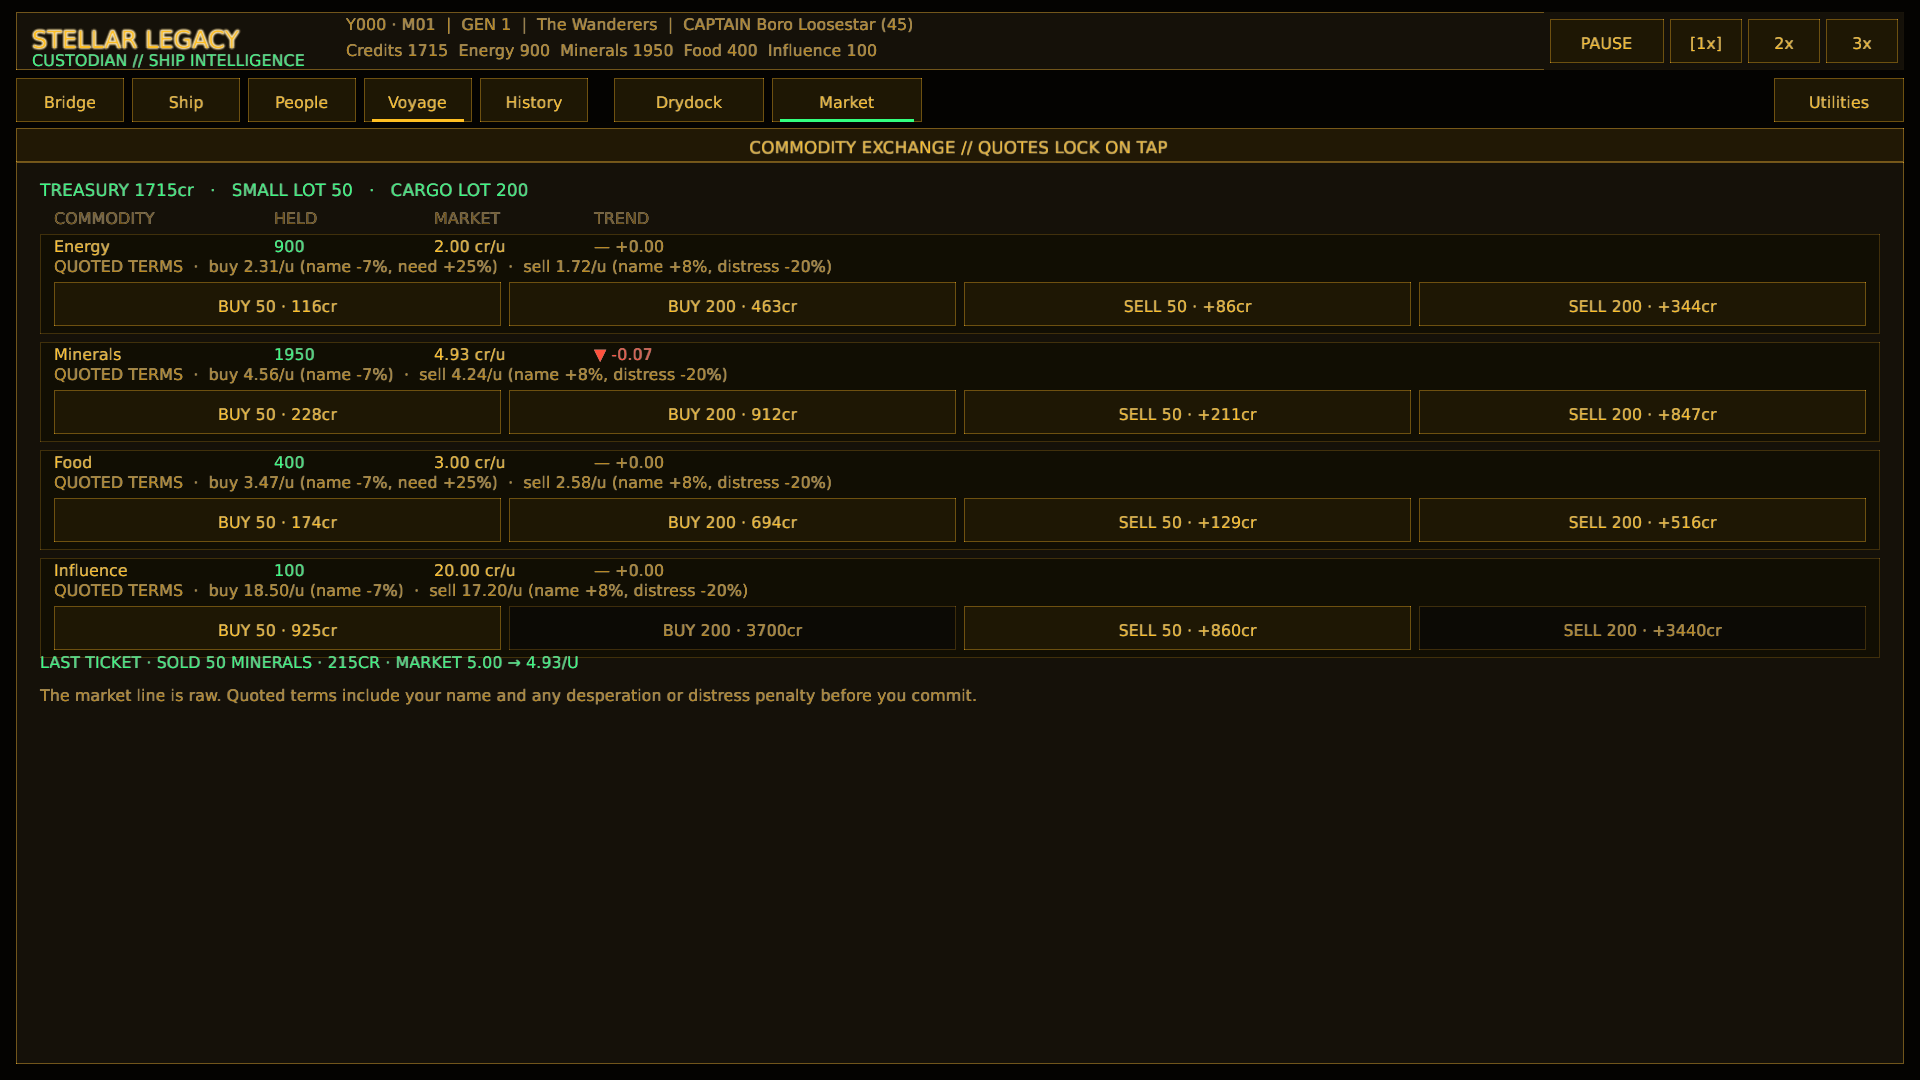
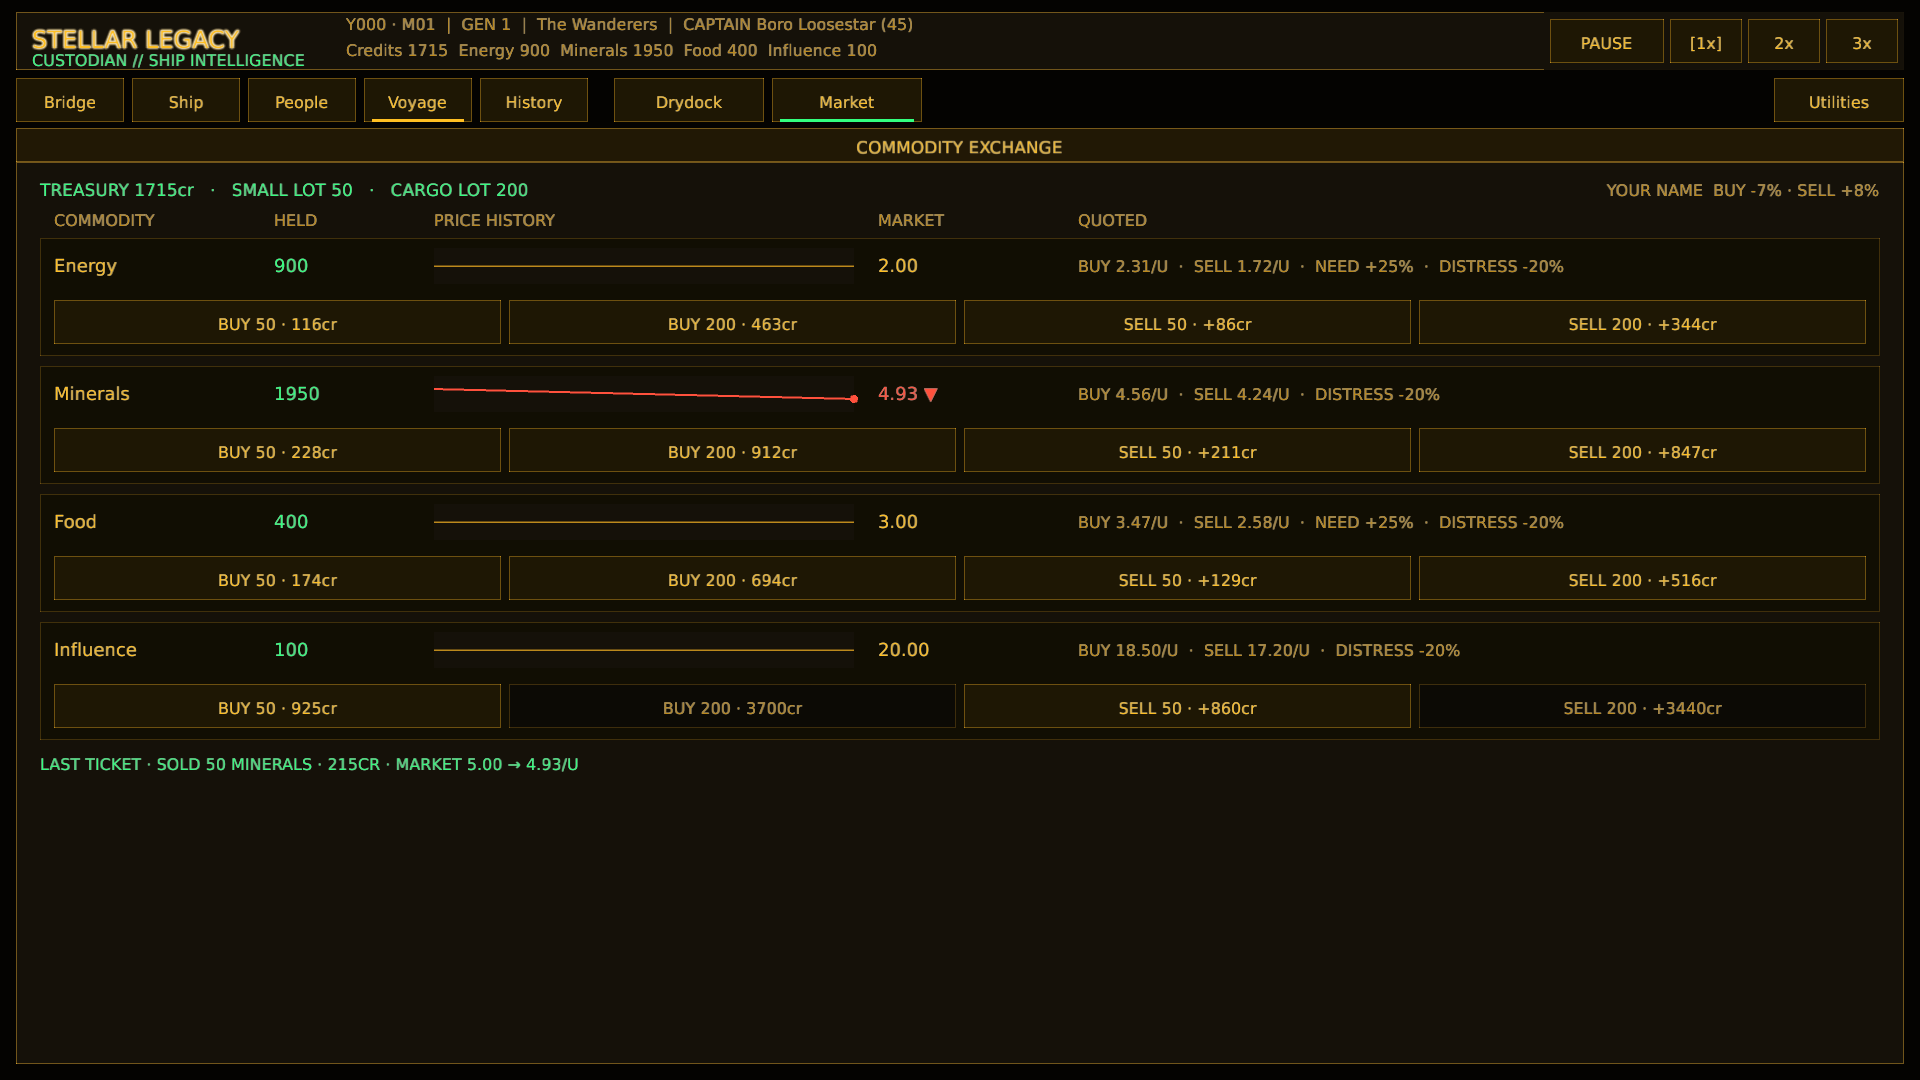
The exchange remembers where its prices have been (Market sparklines)
Each commodity read as "— +0.00" for its trend and a full quoted-terms
sentence ("buy 2.31/u (name -7%, need +25%) · sell 1.72/u (name +8%,
distress -20%)"), under a "QUOTES LOCK ON TAP" title and above a
paragraph explaining raw versus quoted prices (UI_TEXT_REVIEW item 7).

`MarketEntry` now keeps up to 24 earlier settled prices in a
`#[serde(default)]` `history`, recorded by the new `set_price`, which
both the yearly drift and trade impact use, so older saves load with an
empty history. Each row draws that history plus the current price as a
sparkline scaled to its own range, toned by the latest change with a dot
at the present price, and the price itself carries the arrow. Quoted
terms are now unit buy and sell prices plus NEED or DISTRESS tags only
when they apply; the ship's name bends every good alike, so it is
stated once in the header. The title caption and the footer paragraph
are gone; the last ticket stays.

Formatting, strict all-target Clippy and the full test suite including
code standards pass. Market was recaptured at 1920x1080 and read back;
a fresh campaign shows flat lines until prices move.

diff --git a/src/ui/market.rs b/src/ui/market.rs
@@ -22,35 +22,41 @@ fn factor_label(name: &str, factor: f32) -> Option<String> {
     (percent != 0).then(|| format!("{name} {percent:+}%"))
 }
 
+/// Unit buy and sell prices for one commodity, with a tag only when the
+/// ship's need or distress is bending this good's terms right now. The ship's
+/// name bends every good alike, so it is stated once in the header instead.
 fn terms_line(buy: TradeQuote, sell: TradeQuote) -> String {
-    let mut buy_terms = Vec::new();
-    if let Some(label) = factor_label("name", buy.reputation_factor) {
-        buy_terms.push(label);
-    }
-    if let Some(label) = factor_label("need", buy.pressure_factor) {
-        buy_terms.push(label);
-    }
-    let mut sell_terms = Vec::new();
-    if let Some(label) = factor_label("name", sell.reputation_factor) {
-        sell_terms.push(label);
-    }
-    if let Some(label) = factor_label("distress", sell.pressure_factor) {
-        sell_terms.push(label);
-    }
-    let buy_suffix = if buy_terms.is_empty() {
-        "standard".to_owned()
-    } else {
-        buy_terms.join(", ")
-    };
-    let sell_suffix = if sell_terms.is_empty() {
-        "standard".to_owned()
-    } else {
-        sell_terms.join(", ")
-    };
-    format!(
-        "QUOTED TERMS  ·  buy {:.2}/u ({buy_suffix})  ·  sell {:.2}/u ({sell_suffix})",
+    let mut line = format!(
+        "BUY {:.2}/U  ·  SELL {:.2}/U",
         buy.effective_unit_price, sell.effective_unit_price
-    )
+    );
+    for tag in [
+        factor_label("NEED", buy.pressure_factor),
+        factor_label("DISTRESS", sell.pressure_factor),
+    ]
+    .into_iter()
+    .flatten()
+    {
+        line.push_str(&format!("  ·  {tag}"));
+    }
+    line
+}
+
+/// The ship's reputation terms, shared by every commodity; empty when the
+/// name moves no price.
+fn name_terms(buy: TradeQuote, sell: TradeQuote) -> String {
+    let terms: Vec<String> = [
+        factor_label("BUY", buy.reputation_factor),
+        factor_label("SELL", sell.reputation_factor),
+    ]
+    .into_iter()
+    .flatten()
+    .collect();
+    if terms.is_empty() {
+        String::new()
+    } else {
+        format!("YOUR NAME  {}", terms.join(" · "))
+    }
 }
 
 pub(crate) fn trade_lot_sizes(cargo: i64) -> (i64, i64) {
@@ -58,8 +64,14 @@ pub(crate) fn trade_lot_sizes(cargo: i64) -> (i64, i64) {
     ((cargo_lot / 4).max(10).min(cargo_lot), cargo_lot)
 }
 
+const COL_HELD: f32 = 220.0;
+const COL_HISTORY: f32 = 380.0;
+const HISTORY_W: f32 = 420.0;
+const COL_PRICE: f32 = COL_HISTORY + HISTORY_W + 24.0;
+const COL_TERMS: f32 = COL_PRICE + 200.0;
+
 pub fn draw(ctx: &GameplayCtx<'_>, area: Rect, pointer: Pointer, actions: &mut Vec<UiAction>) {
-    term_panel(area, Some("COMMODITY EXCHANGE // QUOTES LOCK ON TAP"));
+    term_panel(area, Some("COMMODITY EXCHANGE"));
     let content = area.inset(24.0);
     let (small_lot, cargo_lot) = trade_lot_sizes(loadout_stats(ctx.sim, ctx.data).cargo as i64);
     let y = draw_market_header(ctx, content, small_lot, cargo_lot);
@@ -78,26 +90,32 @@ fn draw_market_header(ctx: &GameplayCtx<'_>, content: Rect, small_lot: i64, carg
         y,
         TextStyle::new(17.0, term::accent()).params(),
     );
-    y += 28.0;
-
-    let col_held = 220.0;
-    let col_price = 380.0;
-    let col_trend = 540.0;
+    // Reputation bends every good alike; probe one good for the shared terms.
+    let name = name_terms(
+        buy_quote(ctx.sim, TradeResource::Energy, small_lot),
+        sell_quote(ctx.sim, TradeResource::Energy, small_lot),
+    );
+    if !name.is_empty() {
+        let style = TextStyle::new(16.0, term::dim());
+        let w = measure_text_size(&name, style).width;
+        draw_ui_text_ex(&name, content.right() - w, y, style.params());
+    }
+    y += 30.0;
     for (label, offset) in [
         ("COMMODITY", 0.0),
-        ("HELD", col_held),
-        ("MARKET", col_price),
-        ("TREND", col_trend),
+        ("HELD", COL_HELD),
+        ("PRICE HISTORY", COL_HISTORY),
+        ("MARKET", COL_PRICE),
+        ("QUOTED", COL_TERMS),
     ] {
         draw_ui_text_ex(
             label,
             content.x + 14.0 + offset,
             y,
-            TextStyle::new(12.0, term::faint()).params(),
+            TextStyle::new(16.0, term::dim()).params(),
         );
     }
-    y += 10.0;
-    y
+    y + 12.0
 }
 
 fn draw_market_rows(
@@ -109,8 +127,8 @@ fn draw_market_rows(
     cargo_lot: i64,
     mut y: f32,
 ) -> f32 {
-    const ROW_H: f32 = 100.0;
-    const ROW_GAP: f32 = 8.0;
+    const ROW_H: f32 = 118.0;
+    const ROW_GAP: f32 = 10.0;
     for entry in &ctx.sim.market.entries {
         draw_market_row(
             ctx,
@@ -126,6 +144,28 @@ fn draw_market_rows(
     y
 }
 
+/// The price line: earlier settled prices then the current one, scaled to
+/// their own range so small moves still read, toned by the latest change.
+fn draw_sparkline(entry: &crate::state::sim::MarketEntry, rect: Rect, tone: Color) {
+    draw_rectangle(rect.x, rect.y, rect.w, rect.h, term::panel());
+    let mut values = entry.history.clone();
+    values.push(entry.price);
+    if values.len() < 2 {
+        // No settled history yet: a flat line at mid-height.
+        let mid = rect.y + rect.h * 0.5;
+        draw_line(rect.x, mid, rect.right(), mid, 1.5, term::dim());
+        return;
+    }
+    let lo = values.iter().copied().fold(f32::INFINITY, f32::min);
+    let hi = values.iter().copied().fold(f32::NEG_INFINITY, f32::max);
+    let pad = ((hi - lo) * 0.15).max(entry.price * 0.02);
+    let points = crate::ui::chart::line_points(rect, &values, lo - pad, hi + pad);
+    crate::ui::chart::polyline(&points, 2.0, tone);
+    if let Some(last) = points.last() {
+        draw_circle(last.x, last.y, 4.0, tone);
+    }
+}
+
 fn draw_market_row(
     ctx: &GameplayCtx<'_>,
     entry: &crate::state::sim::MarketEntry,
@@ -135,9 +175,6 @@ fn draw_market_row(
     small_lot: i64,
     cargo_lot: i64,
 ) {
-    let col_held = 220.0;
-    let col_price = 380.0;
-    let col_trend = 540.0;
     draw_surface(
         row,
         &SurfaceStyle::new(term::surface_inset()).with_border(1.0, term::faint()),
@@ -149,31 +186,31 @@ fn draw_market_row(
     } else if entry.trend < -0.005 {
         ("▼", term::alert())
     } else {
-        ("—", term::dim())
+        ("", term::primary())
     };
+    let line_y = row.y + 34.0;
     draw_ui_text_ex(
         entry.resource.label(),
         cx,
-        row.y + 18.0,
-        TextStyle::new(15.0, term::primary()).params(),
+        line_y,
+        TextStyle::new(18.0, term::primary()).params(),
     );
     draw_ui_text_ex(
         &held.to_string(),
-        cx + col_held,
-        row.y + 18.0,
-        TextStyle::new(15.0, term::accent()).params(),
+        cx + COL_HELD,
+        line_y,
+        TextStyle::new(18.0, term::accent()).params(),
+    );
+    draw_sparkline(
+        entry,
+        Rect::new(cx + COL_HISTORY, row.y + 10.0, HISTORY_W, 36.0),
+        trend_color,
     );
     draw_ui_text_ex(
-        &format!("{:.2} cr/u", entry.price),
-        cx + col_price,
-        row.y + 18.0,
-        TextStyle::new(15.0, term::primary()).params(),
-    );
-    draw_ui_text_ex(
-        &format!("{arrow} {:+.2}", entry.trend),
-        cx + col_trend,
-        row.y + 18.0,
-        TextStyle::new(15.0, trend_color).params(),
+        &format!("{:.2} {arrow}", entry.price),
+        cx + COL_PRICE,
+        line_y,
+        TextStyle::new(18.0, trend_color).params(),
     );
 
     let buy_small = buy_quote(ctx.sim, entry.resource, small_lot);
@@ -182,9 +219,9 @@ fn draw_market_row(
     let sell_full = sell_quote(ctx.sim, entry.resource, cargo_lot);
     draw_ui_text_ex(
         &terms_line(buy_small, sell_small),
-        cx,
-        row.y + 38.0,
-        TextStyle::new(11.0, term::dim()).params(),
+        cx + COL_TERMS,
+        line_y,
+        TextStyle::new(16.0, term::dim()).params(),
     );
 
     draw_trade_buttons(
@@ -209,7 +246,7 @@ fn draw_trade_buttons(
 ) {
     let gap = 8.0;
     let button_w = (row.w - 28.0 - gap * 3.0) / 4.0;
-    let button_y = row.y + 48.0;
+    let button_y = row.y + 62.0;
     for (index, quote) in quotes.into_iter().enumerate() {
         let buying = index < 2;
         let rect = Rect::new(
@@ -251,20 +288,10 @@ fn draw_market_footer(ctx: &GameplayCtx<'_>, content: Rect, y: f32) {
                 receipt.market_price_after
             ),
             content.x,
-            y + 2.0,
+            y + 20.0,
             TextStyle::new(12.0, term::accent()).params(),
         );
     }
-    draw_text_block(
-        "The market line is raw. Quoted terms include your name and any desperation or distress penalty before you commit.",
-        content.x,
-        y + 19.0,
-        content.w,
-        34.0,
-        12.0,
-        2.0,
-        term::dim(),
-    );
 }
 #[allow(dead_code, unused_imports)]
 mod tests {

diff --git a/src/simulation/market.rs b/src/simulation/market.rs
@@ -22,10 +22,8 @@ pub fn drift_prices(sim: &mut SimState) {
     for i in 0..sim.market.entries.len() {
         let drift = sim.rng.range_f32(-0.08, 0.08);
         let entry = &mut sim.market.entries[i];
-        let old = entry.price;
         let base = base_price(entry.resource);
-        entry.price = (old * (1.0 + drift)).clamp(base * 0.5, base * 3.0);
-        entry.trend = entry.price - old;
+        entry.set_price((entry.price * (1.0 + drift)).clamp(base * 0.5, base * 3.0));
     }
 }
 
@@ -227,9 +225,7 @@ fn shift_price(sim: &mut SimState, resource: TradeResource, signed_amount: i64) 
         .iter_mut()
         .find(|e| e.resource == resource)
     {
-        let old = entry.price;
-        entry.price = (entry.price + shift).clamp(base * 0.5, base * 3.0);
-        entry.trend = entry.price - old;
+        entry.set_price((entry.price + shift).clamp(base * 0.5, base * 3.0));
         entry.price
     } else {
         base

diff --git a/src/state/sim/market.rs b/src/state/sim/market.rs
@@ -36,6 +36,26 @@ pub struct MarketEntry {
     pub price: f32,
     /// Signed change from the latest drift or player trade.
     pub trend: f32,
+    /// Earlier settled prices, oldest first, capped at `PRICE_HISTORY_LEN`.
+    /// Drawn as the exchange's sparkline; older saves load with none.
+    #[serde(default)]
+    pub history: Vec<f32>,
+}
+
+/// How many earlier prices an entry remembers for its sparkline.
+pub const PRICE_HISTORY_LEN: usize = 24;
+
+impl MarketEntry {
+    /// Move to a new price, remembering the old one and the signed change.
+    pub fn set_price(&mut self, price: f32) {
+        let old = self.price;
+        self.history.push(old);
+        if self.history.len() > PRICE_HISTORY_LEN {
+            self.history.remove(0);
+        }
+        self.price = price;
+        self.trend = price - old;
+    }
 }
 
 /// The exchange's last settled ticket. Kept with market state so leaving and

diff --git a/src/state/sim/campaign.rs b/src/state/sim/campaign.rs
@@ -139,6 +139,7 @@ fn starting_market(config: &GameConfig) -> MarketState {
                 resource,
                 price: base_price(resource),
                 trend: 0.0,
+                history: Vec::new(),
             })
             .collect(),
         last_trade: None,
